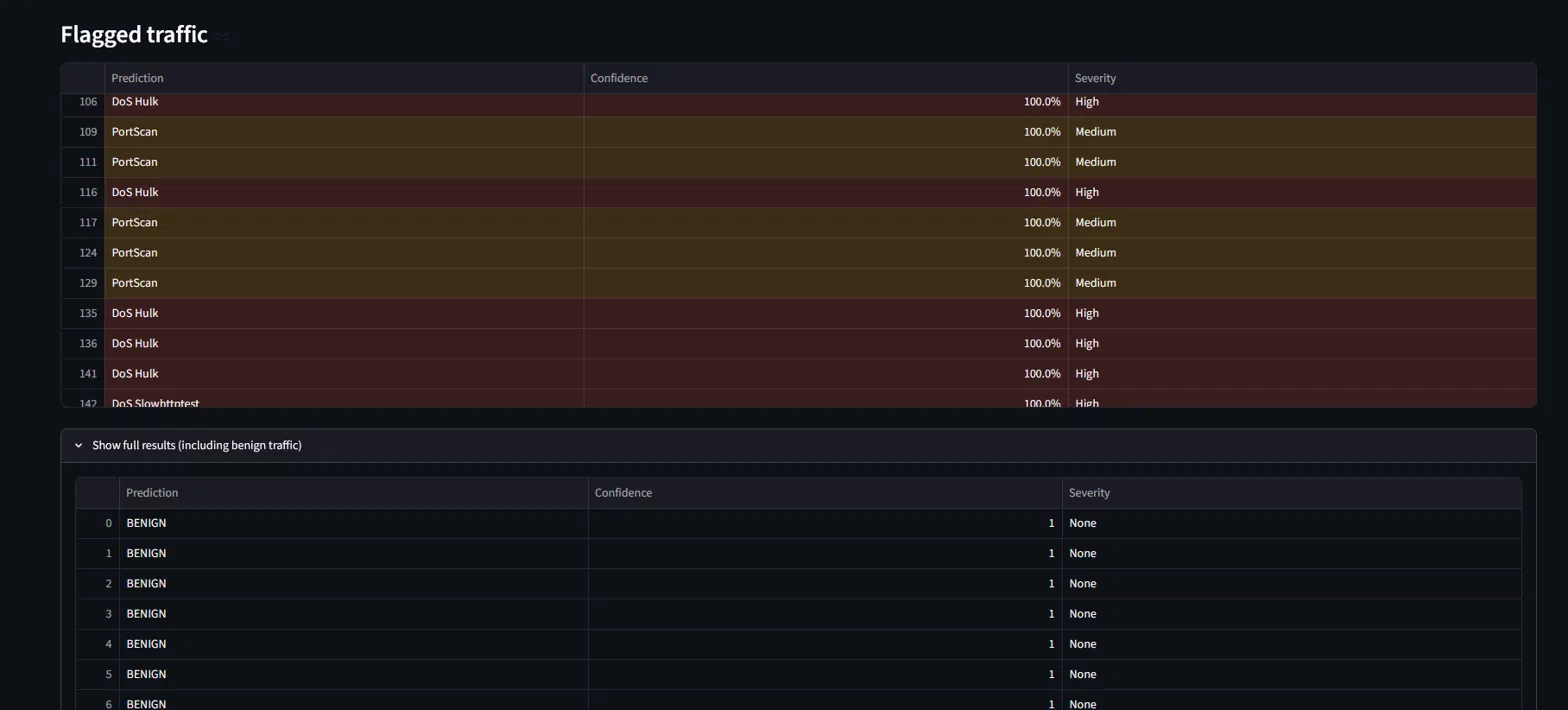
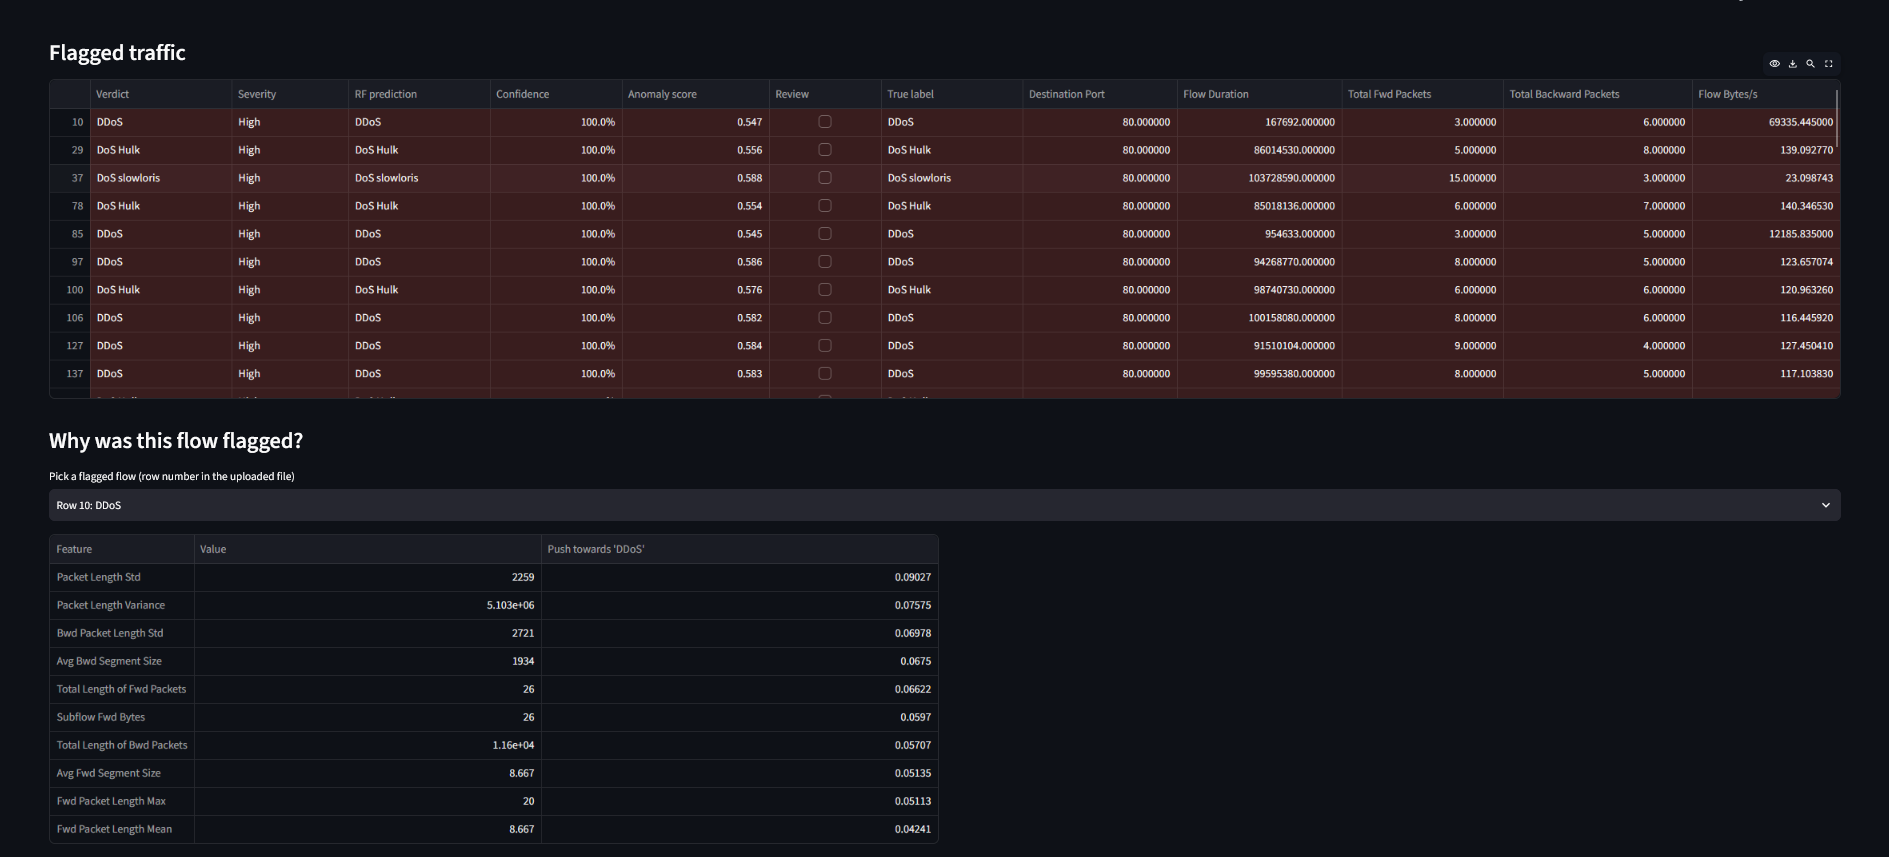
Add new dashboard screenshots, fix SHAP chart, correct sample counts
- Replace screenshots with the hybrid/SHAP dashboard and show them in README
- SHAP bar chart: use a plain series name; quotes in the field name
  stopped it rendering
- README: sample file raises 8 unknown anomalies (5 Heartbleed,
  2 Infiltration, 1 false alarm), not 6

Claude-Session: https://claude.ai/code/session_01UW99FjRdj11aek5k3iMiia

diff --git a/app.py b/app.py
@@ -223,7 +223,9 @@ def main():
                                        detector, explainers)
         left, right = st.columns([1, 1])
         left.dataframe(explanation.style.format("{:.4g}"), use_container_width=True)
-        right.bar_chart(explanation.iloc[:, 1], horizontal=True)
+        # Plain series name: quotes in a chart field name (e.g. "'DDoS'")
+        # can stop the chart from rendering
+        right.bar_chart(explanation.iloc[:, 1].rename("SHAP value"), horizontal=True)
         st.caption("SHAP values: how much each feature's value moved the model's "
                    "output towards this verdict for this specific flow. Negative "
                    "bars pushed against it.")

diff --git a/README.md b/README.md
@@ -173,8 +173,13 @@ and each flow gets:
 `sample_flows.csv` is a ready-made demo upload: 200 random test flows plus
 5 flows from each never-seen attack class. Its `Label` column is shown as
 ground truth but never used as a feature. On this file, the dashboard
-classifies every known-attack flow correctly and flags all 5 Heartbleed
-flows as unknown anomalies, with one false alarm out of 163 benign flows.
+classifies every known-attack flow correctly and raises 8 unknown
+anomalies: all 5 Heartbleed flows, 2 of the 5 Infiltration flows, and 1
+false alarm out of 163 benign flows.
+
+![Dashboard overview](screenshots/dashboard-overview.png)
+
+![Flagged flows with a SHAP explanation](screenshots/dashboard-flagged.png)
 
 ## Limitations
 
